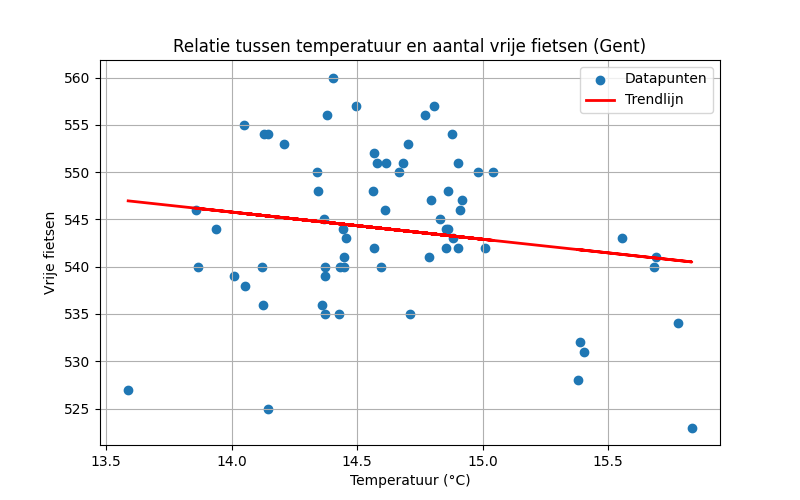
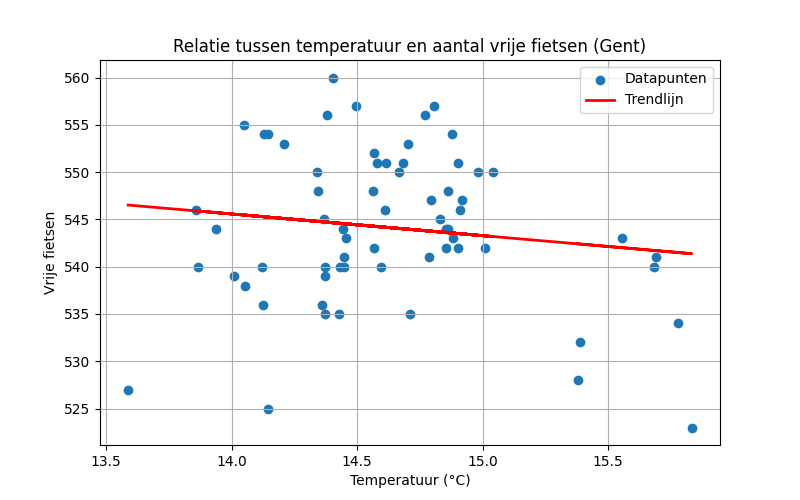
Automatische update 2025-11-15 14:07:24

Changed region(s): [[0.4688, 0.45, 0.875, 0.54], [0.1562, 0.39, 0.375, 0.45], [0.7188, 0.69, 0.75, 0.72]]

diff --git a/reports/report.md b/reports/report.md
@@ -1,16 +1,16 @@
 # Data Workflow Rapport
 
-**Gegenereerd op:** 2025-11-15 14:06:04.034075
+**Gegenereerd op:** 2025-11-15 14:07:24.265650
 
 ## Grafiek: Vrije fietsen vs Temperatuur
 ![Fietsen vs Temp](fiets_vs_temp.png)
 
 ## Basisstatistieken
-- Gemiddelde temperatuur: 14.64 °C
+- Gemiddelde temperatuur: 14.63 °C
 - Gemiddeld aantal vrije fietsen: 544
-- Gemiddeld aantal fietsen overdag (07-19u): 542
+- Gemiddeld aantal fietsen overdag (07-19u): 543
 - Gemiddeld aantal fietsen ’s nachts (19-07u): 547
-- Correlatie: -0.17
+- Correlatie: -0.13
 
 ## Vrije fietsen per weekdag
 
@@ -21,7 +21,7 @@
 | Woensdag | 0 | 0 | 0 |
 | Donderdag | 525 | 550 | 535 |
 | Vrijdag | 535 | 557 | 545 |
-| Zaterdag | 523 | 560 | 545 |
+| Zaterdag | 523 | 560 | 546 |
 | Zondag | 0 | 0 | 0 |
 
 ---
